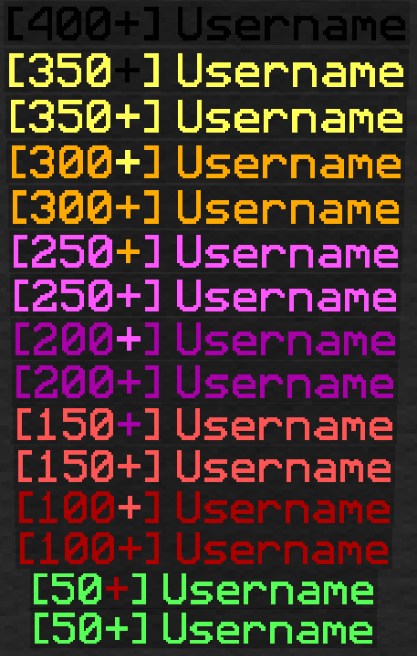
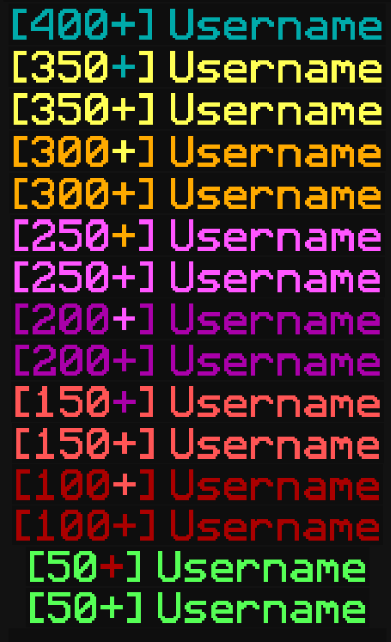
Changed 400+ rank to blue instead of black

diff --git a/src/utils/RankManager.java b/src/utils/RankManager.java
@@ -45,12 +45,10 @@ public class RankManager {
 	 * @author Blackoutburst
 	 */
 	private static String getRank(Player player, int qualification, int finals) {
-		if (player.getUniqueId().toString().replace("-", "").equals("082e28e178724b21ba12b3231f7a872c")) {
-			return(ChatColor.GOLD + "[Legend] ");//Teddy
-		} else if (qualification >= 400 || finals >= 400) {
-			return(ChatColor.BLACK + "[400+] ");
+		if (qualification >= 400 || finals >= 400) {
+			return(ChatColor.DARK_AQUA + "[400+] ");
 		} else if (qualification >= 375 || finals >= 375) {
-			return(ChatColor.YELLOW + "[350"+ ChatColor.BLACK +"+"+ChatColor.YELLOW+"] ");
+			return(ChatColor.YELLOW + "[350"+ ChatColor.DARK_AQUA +"+"+ChatColor.YELLOW+"] ");
 		} else if (qualification >= 350 || finals >= 350) {
 			return(ChatColor.YELLOW + "[350+] ");
 		} else if (qualification >= 325 || finals >= 325) {
